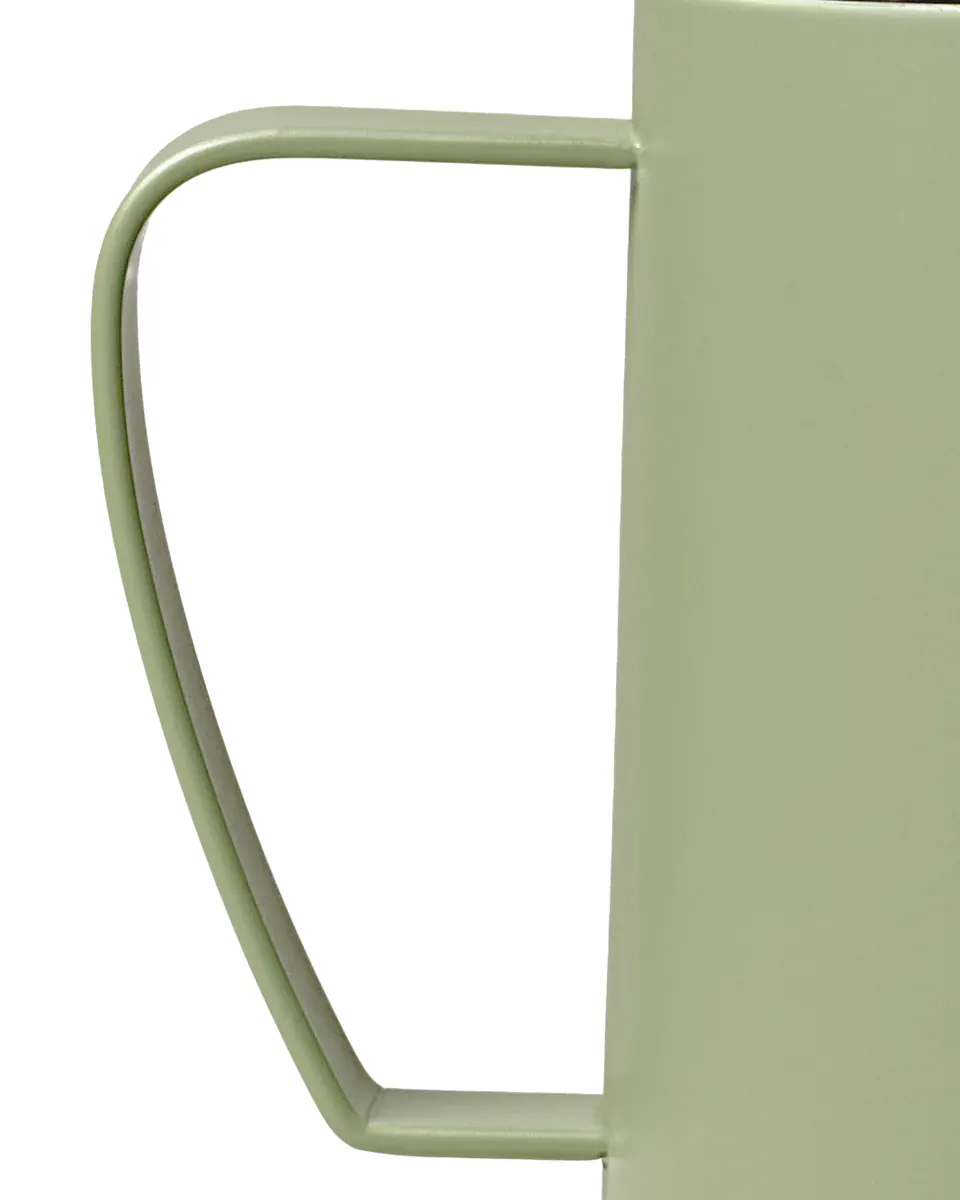
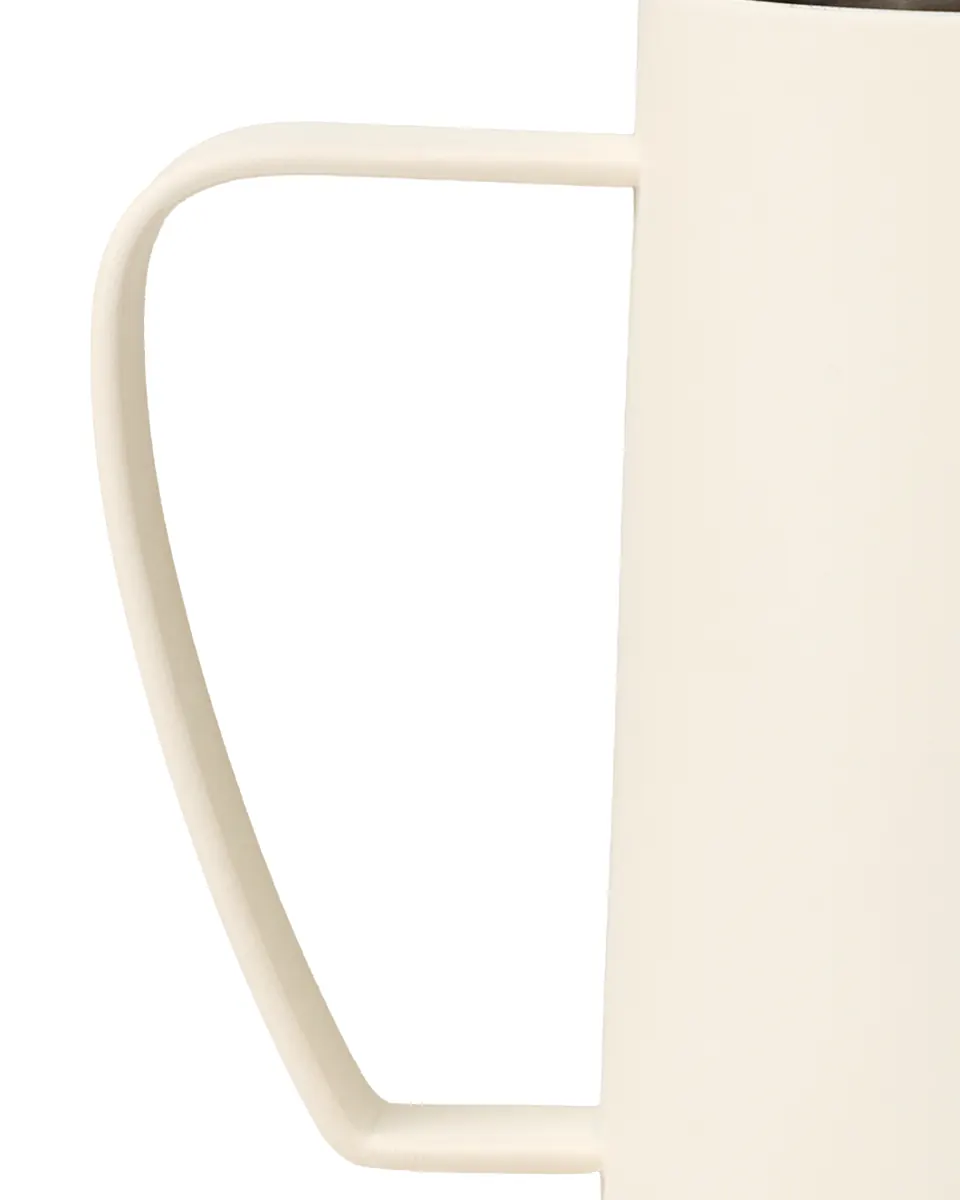
Im Detail: je Kachel eine Farbe (Tülle Onyx, Skala Steel, Griff Linen retuschiert, Beutel Juniper)

diff --git a/_build/vorlagen/startseite-en.html b/_build/vorlagen/startseite-en.html
@@ -316,11 +316,11 @@ header .kopf-logo{display:block;color:var(--gruen)}
   <div class="wrap">
     <div class="kopf"><p class="eyebrow">LUN 350</p><h2>In detail.</h2></div>
     <div class="detailreihe">
-      <figure class="detail"><div class="bild"><img src="/assets/web/detail-ausguss-680.webp" decoding="async" alt="Close-up of the spout of the LUN" loading="lazy"></div>
+      <figure class="detail"><div class="bild"><img src="/assets/web/detail-ausguss-960.webp" decoding="async" alt="Spout of the LUN in Onyx, filled with milk" loading="lazy"></div>
         <figcaption><strong>Spout</strong><span>Shaped for latte art. Not too wide, so you can guide the stream of milk precisely.</span></figcaption></figure>
       <figure class="detail"><div class="bild"><img src="/assets/web/detail-skala-784.webp" decoding="async" alt="Scale inside in ml and oz" loading="lazy"></div>
         <figcaption><strong>Scale inside</strong><span>Engraved in ml and oz. You can see how much milk there is as you pour it in.</span></figcaption></figure>
-      <figure class="detail"><div class="bild"><img src="/assets/web/detail-griff-960.webp" decoding="async" alt="Handle of the LUN in Juniper" loading="lazy"></div>
+      <figure class="detail"><div class="bild"><img src="/assets/web/detail-griff-960.webp" decoding="async" alt="Handle of the LUN in Linen" loading="lazy"></div>
         <figcaption><strong>Seamless handle</strong><span>It runs into the body without a weld point. No milk gets caught there, and the jug is clean again in no time.</span></figcaption></figure>
       <figure class="detail"><div class="bild"><img src="/assets/web/detail-wand-960.webp" decoding="async" alt="LUN in its cotton bag in front of the cardboard box" loading="lazy"></div>
         <figcaption><strong>Plastic-free packaging</strong><span>In a cotton bag and a natural cardboard box, ready to give as a gift.</span></figcaption></figure>

diff --git a/en/index.html b/en/index.html
@@ -344,11 +344,11 @@ header .kopf-logo{display:block;color:var(--gruen)}
   <div class="wrap">
     <div class="kopf"><p class="eyebrow">LUN 350</p><h2>In detail.</h2></div>
     <div class="detailreihe">
-      <figure class="detail"><div class="bild"><img src="/assets/web/detail-ausguss-680.webp" decoding="async" alt="Close-up of the spout of the LUN" loading="lazy"></div>
+      <figure class="detail"><div class="bild"><img src="/assets/web/detail-ausguss-960.webp" decoding="async" alt="Spout of the LUN in Onyx, filled with milk" loading="lazy"></div>
         <figcaption><strong>Spout</strong><span>Shaped for latte art. Not too wide, so you can guide the stream of milk precisely.</span></figcaption></figure>
       <figure class="detail"><div class="bild"><img src="/assets/web/detail-skala-784.webp" decoding="async" alt="Scale inside in ml and oz" loading="lazy"></div>
         <figcaption><strong>Scale inside</strong><span>Engraved in ml and oz. You can see how much milk there is as you pour it in.</span></figcaption></figure>
-      <figure class="detail"><div class="bild"><img src="/assets/web/detail-griff-960.webp" decoding="async" alt="Handle of the LUN in Juniper" loading="lazy"></div>
+      <figure class="detail"><div class="bild"><img src="/assets/web/detail-griff-960.webp" decoding="async" alt="Handle of the LUN in Linen" loading="lazy"></div>
         <figcaption><strong>Seamless handle</strong><span>It runs into the body without a weld point. No milk gets caught there, and the jug is clean again in no time.</span></figcaption></figure>
       <figure class="detail"><div class="bild"><img src="/assets/web/detail-wand-960.webp" decoding="async" alt="LUN in its cotton bag in front of the cardboard box" loading="lazy"></div>
         <figcaption><strong>Plastic-free packaging</strong><span>In a cotton bag and a natural cardboard box, ready to give as a gift.</span></figcaption></figure>

diff --git a/_build/vorlagen/startseite-de.html b/_build/vorlagen/startseite-de.html
@@ -316,11 +316,11 @@ header .kopf-logo{display:block;color:var(--gruen)}
   <div class="wrap">
     <div class="kopf"><p class="eyebrow">LUN 350</p><h2>Im Detail.</h2></div>
     <div class="detailreihe">
-      <figure class="detail"><div class="bild"><img src="/assets/web/detail-ausguss-680.webp" decoding="async" alt="Tülle der LUN aus der Nähe" loading="lazy"></div>
+      <figure class="detail"><div class="bild"><img src="/assets/web/detail-ausguss-960.webp" decoding="async" alt="Tülle der LUN in Onyx, gefüllt mit Milch" loading="lazy"></div>
         <figcaption><strong>Tülle</strong><span>Geformt für Latte Art. Nicht zu breit, damit du den Milchstrahl genau führen kannst.</span></figcaption></figure>
       <figure class="detail"><div class="bild"><img src="/assets/web/detail-skala-784.webp" decoding="async" alt="Innenskala in ml und oz" loading="lazy"></div>
         <figcaption><strong>Skala innen</strong><span>In ml und oz graviert. Du siehst die Menge schon beim Einfüllen.</span></figcaption></figure>
-      <figure class="detail"><div class="bild"><img src="/assets/web/detail-griff-960.webp" decoding="async" alt="Griff der LUN in Juniper" loading="lazy"></div>
+      <figure class="detail"><div class="bild"><img src="/assets/web/detail-griff-960.webp" decoding="async" alt="Griff der LUN in Linen" loading="lazy"></div>
         <figcaption><strong>Nahtloser Griff</strong><span>Er geht ohne Schweißpunkt in den Korpus über. Da bleiben keine Milchreste hängen, und die Kanne ist schnell wieder sauber.</span></figcaption></figure>
       <figure class="detail"><div class="bild"><img src="/assets/web/detail-wand-960.webp" decoding="async" alt="LUN im Baumwollbeutel vor dem Naturkarton" loading="lazy"></div>
         <figcaption><strong>Kunststofffrei verpackt</strong><span>Im Baumwollbeutel und Naturkarton, bereit zum Verschenken.</span></figcaption></figure>

diff --git a/de/index.html b/de/index.html
@@ -344,11 +344,11 @@ header .kopf-logo{display:block;color:var(--gruen)}
   <div class="wrap">
     <div class="kopf"><p class="eyebrow">LUN 350</p><h2>Im Detail.</h2></div>
     <div class="detailreihe">
-      <figure class="detail"><div class="bild"><img src="/assets/web/detail-ausguss-680.webp" decoding="async" alt="Tülle der LUN aus der Nähe" loading="lazy"></div>
+      <figure class="detail"><div class="bild"><img src="/assets/web/detail-ausguss-960.webp" decoding="async" alt="Tülle der LUN in Onyx, gefüllt mit Milch" loading="lazy"></div>
         <figcaption><strong>Tülle</strong><span>Geformt für Latte Art. Nicht zu breit, damit du den Milchstrahl genau führen kannst.</span></figcaption></figure>
       <figure class="detail"><div class="bild"><img src="/assets/web/detail-skala-784.webp" decoding="async" alt="Innenskala in ml und oz" loading="lazy"></div>
         <figcaption><strong>Skala innen</strong><span>In ml und oz graviert. Du siehst die Menge schon beim Einfüllen.</span></figcaption></figure>
-      <figure class="detail"><div class="bild"><img src="/assets/web/detail-griff-960.webp" decoding="async" alt="Griff der LUN in Juniper" loading="lazy"></div>
+      <figure class="detail"><div class="bild"><img src="/assets/web/detail-griff-960.webp" decoding="async" alt="Griff der LUN in Linen" loading="lazy"></div>
         <figcaption><strong>Nahtloser Griff</strong><span>Er geht ohne Schweißpunkt in den Korpus über. Da bleiben keine Milchreste hängen, und die Kanne ist schnell wieder sauber.</span></figcaption></figure>
       <figure class="detail"><div class="bild"><img src="/assets/web/detail-wand-960.webp" decoding="async" alt="LUN im Baumwollbeutel vor dem Naturkarton" loading="lazy"></div>
         <figcaption><strong>Kunststofffrei verpackt</strong><span>Im Baumwollbeutel und Naturkarton, bereit zum Verschenken.</span></figcaption></figure>

diff --git a/index.html b/index.html
@@ -344,11 +344,11 @@ header .kopf-logo{display:block;color:var(--gruen)}
   <div class="wrap">
     <div class="kopf"><p class="eyebrow">LUN 350</p><h2>Im Detail.</h2></div>
     <div class="detailreihe">
-      <figure class="detail"><div class="bild"><img src="/assets/web/detail-ausguss-680.webp" decoding="async" alt="Tülle der LUN aus der Nähe" loading="lazy"></div>
+      <figure class="detail"><div class="bild"><img src="/assets/web/detail-ausguss-960.webp" decoding="async" alt="Tülle der LUN in Onyx, gefüllt mit Milch" loading="lazy"></div>
         <figcaption><strong>Tülle</strong><span>Geformt für Latte Art. Nicht zu breit, damit du den Milchstrahl genau führen kannst.</span></figcaption></figure>
       <figure class="detail"><div class="bild"><img src="/assets/web/detail-skala-784.webp" decoding="async" alt="Innenskala in ml und oz" loading="lazy"></div>
         <figcaption><strong>Skala innen</strong><span>In ml und oz graviert. Du siehst die Menge schon beim Einfüllen.</span></figcaption></figure>
-      <figure class="detail"><div class="bild"><img src="/assets/web/detail-griff-960.webp" decoding="async" alt="Griff der LUN in Juniper" loading="lazy"></div>
+      <figure class="detail"><div class="bild"><img src="/assets/web/detail-griff-960.webp" decoding="async" alt="Griff der LUN in Linen" loading="lazy"></div>
         <figcaption><strong>Nahtloser Griff</strong><span>Er geht ohne Schweißpunkt in den Korpus über. Da bleiben keine Milchreste hängen, und die Kanne ist schnell wieder sauber.</span></figcaption></figure>
       <figure class="detail"><div class="bild"><img src="/assets/web/detail-wand-960.webp" decoding="async" alt="LUN im Baumwollbeutel vor dem Naturkarton" loading="lazy"></div>
         <figcaption><strong>Kunststofffrei verpackt</strong><span>Im Baumwollbeutel und Naturkarton, bereit zum Verschenken.</span></figcaption></figure>

diff --git a/_build/entwurf/startseite-v70.html b/_build/entwurf/startseite-v70.html
@@ -304,11 +304,11 @@ svg.logo-text{display:inline-block;height:1.24em;width:auto;color:currentColor;v
   <div class="wrap">
     <div class="kopf"><p class="eyebrow">LUN 350</p><h2>Im Detail.</h2></div>
     <div class="detailreihe">
-      <figure class="detail"><div class="bild"><img src="detail-ausguss-680.webp" alt="Tülle der LUN aus der Nähe" loading="lazy"></div>
+      <figure class="detail"><div class="bild"><img src="detail-ausguss-960.webp" alt="Tülle der LUN in Onyx, gefüllt mit Milch" loading="lazy"></div>
         <figcaption><strong>Tülle</strong><span>Geformt für Latte Art. Nicht zu breit, damit du den Milchstrahl genau führen kannst.</span></figcaption></figure>
       <figure class="detail"><div class="bild"><img src="detail-skala-784.webp" alt="Innenskala in ml und oz" loading="lazy"></div>
         <figcaption><strong>Skala innen</strong><span>In ml und oz graviert. Du siehst die Menge schon beim Einfüllen.</span></figcaption></figure>
-      <figure class="detail"><div class="bild"><img src="detail-griff-960.webp" alt="Griff der LUN in Juniper" loading="lazy"></div>
+      <figure class="detail"><div class="bild"><img src="detail-griff-960.webp" alt="Griff der LUN in Linen" loading="lazy"></div>
         <figcaption><strong>Nahtloser Griff</strong><span>Er geht ohne Schweißpunkt in den Korpus über. Da bleiben keine Milchreste hängen, und die Kanne ist schnell wieder sauber.</span></figcaption></figure>
       <figure class="detail"><div class="bild"><img src="detail-wand-960.webp" alt="LUN im Baumwollbeutel vor dem Naturkarton" loading="lazy"></div>
         <figcaption><strong>Kunststofffrei verpackt</strong><span>Im Baumwollbeutel und Naturkarton, bereit zum Verschenken.</span></figcaption></figure>

diff --git a/_build/retusche.py b/_build/retusche.py
@@ -38,8 +38,26 @@ def kante(img, roi):
     return out
 
 
+def naehte(img, streifen, griff_box, thr=7):
+    """Griffansätze nahtlos (Thorsten 14.11.): schmale Streifen über der Naht Griff/Korpus und Lackspuren auf dem Griff
+    (dunkler als lokaler Median, mit Abstand zur Kontur) per Inpainting schließen."""
+    gray = cv2.cvtColor(img, cv2.COLOR_BGR2GRAY)
+    mask = np.zeros(gray.shape, np.uint8)
+    for x0, y0, x1, y1 in streifen:
+        mask[y0:y1, x0:x1] = 255
+    x0, y0, x1, y1 = griff_box
+    sub = gray[y0:y1, x0:x1]
+    dev = (cv2.medianBlur(sub, 21).astype(np.int16) - sub.astype(np.int16)) > thr
+    innen = cv2.erode((sub < 236).astype(np.uint8), np.ones((9, 9), np.uint8)) > 0
+    mask[y0:y1, x0:x1] |= cv2.dilate((dev & innen).astype(np.uint8) * 255, np.ones((3, 3), np.uint8))
+    return cv2.inpaint(img, mask, 7, cv2.INPAINT_TELEA)
+
+
 if __name__ == "__main__":
     os.makedirs(PB + "Retusche", exist_ok=True)
     cv2.imwrite(ZIEL.format("MJOAR0182"), fugen(cv2.imread(ORIG.format("MJOAR0182")), [(895, 890, 965, 965), (865, 1945, 935, 2065)]))
     cv2.imwrite(ZIEL.format("MJOAR0215"), kante(cv2.imread(ORIG.format("MJOAR0215")), (120, 150, 1284, 560)))
+    # MJOAR0191 (Griff Linen, Detailkachel ab 14.11.): Nähte oben/unten + Lackspuren am Griff
+    cv2.imwrite(ZIEL.format("MJOAR0191"), naehte(cv2.imread(ORIG.format("MJOAR0191")),
+                                                 [(929, 910, 944, 961), (889, 1984, 904, 2053)], (330, 880, 960, 2060)))
     print("Retusche geschrieben:", PB + "Retusche/")

diff --git a/_build/bilder.py b/_build/bilder.py
@@ -111,12 +111,15 @@ for farbe in ["Juniper", "Linen", "Onyx", "Steel"]:
 # Ausguss und Skala: 0215 ist das einzige Nahfoto von Ausguss und Skala im Shooting, das Original hat nur 1284 px;
 # die Ausschnitte bleiben deshalb unter 1600 px (kein Hochrechnen). Wand und Griff aus Originalen mit 1600 x 2000.
 d = weiss_anheben(retusche("MJOAR0215"))
-export("detail-ausguss", d.crop((0, 100, 680, 950)))
+# 14.11. (Thorsten: „abwechslungsreicher, viel Steel und Grün“): je Kachel eine Farbe. Tülle jetzt Onyx mit Milch
+# aus 0026 (Logo-Retusche 12.11.), Skala bleibt 0215 (innen ist jede Farbe Stahl), Griff Linen 0191 retuschiert,
+# Beutel bleibt Juniper 0307.
+export("detail-ausguss", quelle_logo("Mjoar_0026 2").crop((503, 603, 2515, 3118)))
 export("detail-skala", d.crop((500, 90, 1284, 1070)))
 export("detail-wand", crop_cover(quelle("MJOAR0307"), 4, 5, cx=0.30, cy=0.523, zoom=3779 / 2000))
 # Griff 0182 (Juniper, Freisteller auf Weiß): ganzer Griff mit beiden Ansätzen am Korpus, 1060 x 1325 (4:5),
 # rechts vor dem Schriftzug abgeschnitten, damit er nicht angeschnitten erscheint (Thorsten 08.10.).
-export("detail-griff", weiss_anheben(retusche("MJOAR0182")).crop((230, 760, 1290, 2085)))
+export("detail-griff", weiss_anheben(retusche("MJOAR0191")).crop((230, 760, 1290, 2085)))
 
 # Größe 0021 1 (Hand), 4:5 wie A+ 06
 export("groesse", crop_cover(quelle("Mjoar_0021 1"), 4, 5, cx=0.42, cy=0.45))
